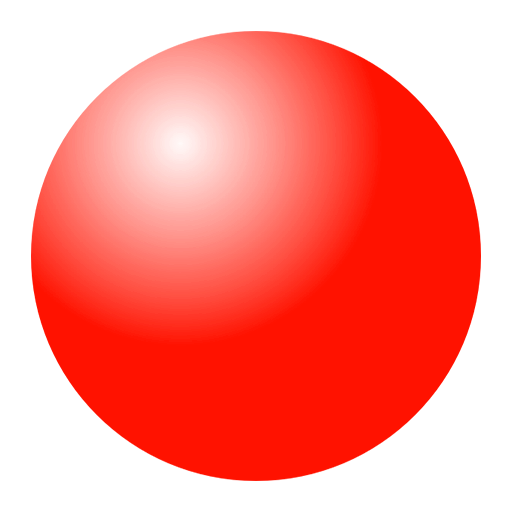
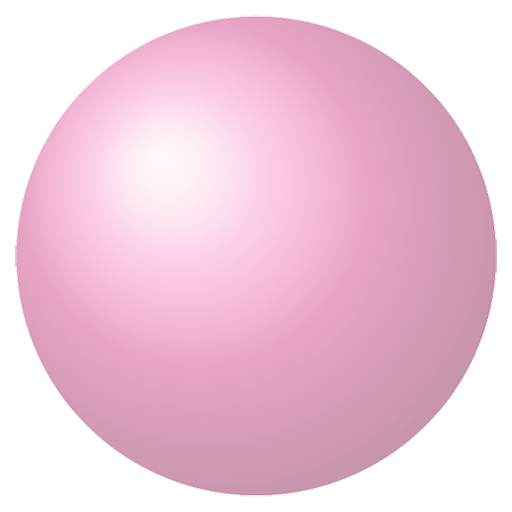
1. Change graphics. 2. Preview next ball positions

diff --git a/js/lines98.js b/js/lines98.js
@@ -3,17 +3,47 @@ var aCellByIDs = [];
 var sActiveCellID = "";
 var aEmptyCellIDs = [];
 var nTotalScore = 0;
-var nMaxColor = 7;
+
+var oGameSettings = { // default game settings
+	nMaxColor : 7, // game difficulty - medium
+	bShowNextBallPos : true, // show next ball positions
+	bVibration : true, // vibration after each move/kill
+	nHighScore : 0
+// highscore
+};
+
 var aNextBalls = [ {
 	id : "nextBall0",
+	toAppear : "",
 	color : 1
 }, {
 	id : "nextBall1",
+	toAppear : "",
 	color : 1
 }, {
 	id : "nextBall2",
+	toAppear : "",
 	color : 1
 } ];
+
+function loadSettings(sSettingsName) {
+	// begin default value
+	if (sSettingsName === undefined) { // no current settings -- save the
+										// default values
+		sSettingsName = "default";
+		windows.localStorage.setItem("gameSettings_" + sSettingsName, JSON
+				.stringify(oGameSettings));
+	}
+	// end default value
+
+	// get current settings
+	window.localStorage.setItem("currentSettings", sSettingsName);
+
+	// load settings
+	oGameSettings = JSON.parse(windows.localStorage.getItem("gameSettings_"
+			+ sSettingsName));
+
+}
 
 function isEmpty(sCellID) {
 	return (aCellByIDs[sCellID].color === 0);
@@ -38,8 +68,9 @@ function setColor(nNewColor, oCell) {
 
 	oCell.color = nNewColor; // set the new color to cell object
 
-	$("#" + sCellID).css("background-image",
+	$("#" + sCellID).removeClass("toAppear").css("background-image",
 			"url(./images/" + nNewColor + ".png)");
+	
 	if (nNewColor === 0) {
 		aEmptyCellIDs.push(sCellID);
 	}
@@ -52,17 +83,26 @@ function newGame(sLoadGame) { // sLoadGame=="load" -> load saved game
 	var nNewColor;
 	var sNewCellID;
 
+	// set highscore
+	if (window.localStorage.getItem("highScore") === undefined) {
+		window.localStorage.setItem("highScore", 0);
+	}
+	oGameSettings.nHighScore = window.localStorage.getItem("highScore");
+	$("#highscore").html(oGameSettings.nHighScore);
+
 	aCellByIDs.length = 0;
 	aEmptyCellIDs.length = 0;
 	// deactivate active cell if exists
-	if (sActiveCellID!==""){$("#"+sActiveCellID).removeClass("active");}
-	
+	if (sActiveCellID !== "") {
+		$("#" + sActiveCellID).removeClass("active");
+	}
+
 	sActiveCellID = "";
 
 	if (sLoadGame === "load") {
-		
+
 		nTotalScore = window.localStorage.getItem("nTotalScore");
-		nMaxColor = window.localStorage.getItem("nMaxColor");
+		oGameSettings.nMaxColor = window.localStorage.getItem("nMaxColor");
 
 		// load boad
 		for (var x = 0; x < 9; x++) {
@@ -78,16 +118,18 @@ function newGame(sLoadGame) { // sLoadGame=="load" -> load saved game
 
 		// set next Ball color
 		for (var i = 0; i < 3; i++) {
-			aNextBalls[i] = JSON.parse(window.localStorage.getItem("nextBall"+ i));
+			aNextBalls[i] = JSON.parse(window.localStorage.getItem("nextBall"
+					+ i));
 			setColor(aNextBalls[i].color, aNextBalls[i]);
 		}
 
 	} else { // reset variables
 		nTotalScore = 0;
-		if ($('input:radio[name=optGameLevel]:checked').val()!==undefined){
-			nMaxColor=$('input:radio[name=optGameLevel]:checked').val();
-		} else{
-			
+		if ($('input:radio[name=optGameLevel]:checked').val() !== undefined) {
+			oGameSettings.nMaxColor = $(
+					'input:radio[name=optGameLevel]:checked').val();
+		} else {
+
 		}
 
 		// reset all cells
@@ -237,8 +279,21 @@ function findPath(sSelectedCellID) {
 function getNextBallColors() {
 	var nNewColor;
 	for (var i = 0; i < 3; i++) {
-		nNewColor = Math.floor(Math.random() * nMaxColor) + 1; // new color
+		nNewColor = Math.floor(Math.random() * oGameSettings.nMaxColor) + 1; // new
+																				// color
 		setColor(nNewColor, aNextBalls[i]);
+
+		// find an empty cell
+		var nNewEmptyCellKey = Math.floor(Math.random() * aEmptyCellIDs.length);
+		var sNewEmptyCellID = aEmptyCellIDs[nNewEmptyCellKey];
+
+		aNextBalls[i].toAppear = sNewEmptyCellID;
+		if (oGameSettings.bShowNextBallPos) {
+			$("#" + aNextBalls[i].toAppear).css("background-image",
+					"url(./images/" + nNewColor + ".png)").addClass("toAppear");
+			console.log("to appear at: " + aNextBalls[i].toAppear);
+		}
+
 	}
 }
 
@@ -247,20 +302,35 @@ function pushNextBallsToBoard() {
 	var nNewEmptyCellKey;
 	var sNewEmptyCellID;
 
-	for (var i = 0; i < 3; i++) {
-		// find an empty cell
-		nNewEmptyCellKey = Math.floor(Math.random() * aEmptyCellIDs.length);
-		sNewEmptyCellID = aEmptyCellIDs[nNewEmptyCellKey];
-
+	for (var i = 0; (i < 3); i++) {
+		if ((aNextBalls[i].toAppear !== "")
+				&& (!isEmpty(aNextBalls[i].toAppear))) {
+			// find an empty cell
+			nNewEmptyCellKey = Math.floor(Math.random() * aEmptyCellIDs.length);
+			sNewEmptyCellID = aEmptyCellIDs[nNewEmptyCellKey];
+		} else {
+			sNewEmptyCellID = aNextBalls[i].toAppear;
+		}
 		// set new color, place the ball
 		setColor(aNextBalls[i].color, aCellByIDs[sNewEmptyCellID]); // 
 		findColorBlocks(sNewEmptyCellID);
 		if (aEmptyCellIDs.length === 0) {
-			alert("game ends");
-			newGame();
+			break;
 		}
 	}
-	getNextBallColors();
+	if (aEmptyCellIDs.length === 0) {
+		alert("No more empty cells, game ends.");
+		if (nTotalScore > oGameSettings.nHighScore) {
+			window.localStorage.highScore = nTotalScore;
+			oGameSettings.nHighScore = nTotalScore;
+
+			alert("congratulation! you have made a new high score.")
+		}
+		newGame();
+		return true;
+	} else {
+		getNextBallColors();
+	}
 	return true;
 }
 
@@ -387,6 +457,17 @@ function findColorBlocks(sCenterCellID) { // function to find color blocks
 		for (var i = 0; i < aBlockCellIDs.length; i++) {
 			setColor(0, aCellByIDs[aBlockCellIDs[i]]);
 		}
+		
+
+		// reset next balls on board
+		for (var i=0;i<3;i++){
+			if ((oGameSettings.bShowNextBallPos)&&(isEmpty(aNextBalls[i].toAppear))) {
+				$("#" + aNextBalls[i].toAppear).css("background-image",
+						"url(./images/" + aNextBalls[i].color + ".png)").addClass("toAppear");
+			}
+		}
+		
+		// increase total score
 		nTotalScore = nTotalScore * 1
 				+ Math.floor(Math.exp(aBlockCellIDs.length * Math.log(1.4)));
 		$("#score").html(nTotalScore);
@@ -420,9 +501,9 @@ function saveGame() {
 
 	// save total score
 	window.localStorage.setItem("nTotalScore", nTotalScore);
-	
+
 	// save game dificulty
-	window.localStorage.setItem("nMaxColor", nMaxColor);
+	window.localStorage.setItem("nMaxColor", oGameSettings.nMaxColor);
 }
 
 // button functions

diff --git a/index.html b/index.html
@@ -646,6 +646,15 @@
 					</div>
 				</div>
 			</fieldset>
+			<div class="ui-grid-a" id="optShowNextBallPos-container">
+				<div class="ui-block-a" style="text-align:left;height:60px;line-height:60px;"><label for="optShowNextBallPos">Show next ball position:</label></div>
+				<div class="ui-block-b" style="height:60px;line-height:60px;">
+					<select id="optShowNextBallPos" data-role="flipswitch">
+					    <option value="0">Off</option>
+					    <option value="1" selected>On</option>
+					</select>
+				</div>
+			</div>
 		</div>
 		<div class='ui-grid-a'>
 			<div class="ui-block-a">

diff --git a/js/script.js b/js/script.js
@@ -191,15 +191,6 @@ function findPath(sSourceCellID, sTargetCellID) {
 	}
 	sortUnvisitedCells();
 
-	// init Unvisited cells
-	// aUnvisitedCells.push({
-	// id : sTargetCellID,
-	// nextID : "",
-	// nDistToTarget : 0
-	// });
-	// nOpenCellCount++;
-	// end intialization
-
 	var oCurrentCell, sNextCellID, tempDist;
 	var aNbhdIDs;
 	while (nUnvisitedCellCount > 0) {

diff --git a/css/style.css b/css/style.css
@@ -17,6 +17,9 @@
 	font-size:50%;
 	background-color:transparent;	
 }
+.boardCell.toAppear{
+	background-size:50%;
+}
 #gameBoard{
 /*  	background-image:url("../images/board.png");  */
 	text-align:center;
